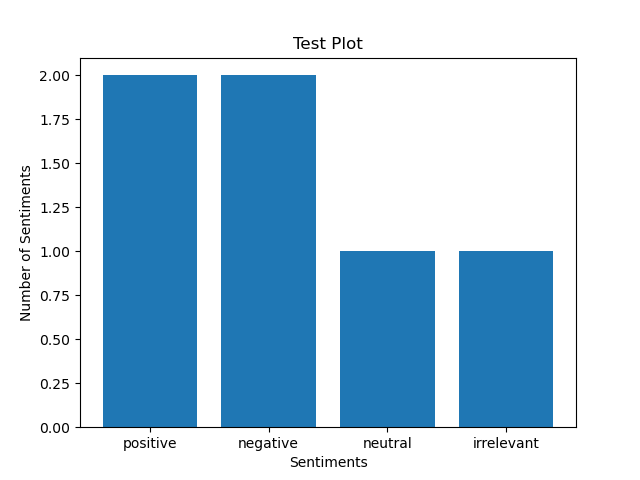
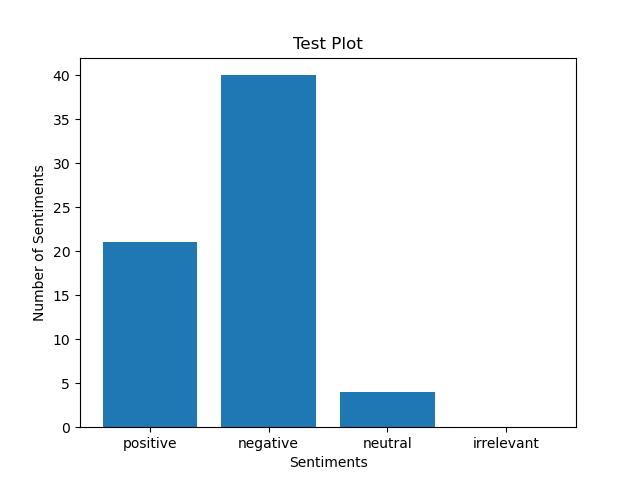
Update of all sections of project to fix graph and writeup

diff --git a/label.py b/label.py
@@ -17,15 +17,13 @@ def get_sentiment(text: list) -> list:
     for i in text:
         if type(i)!=str:
             return "Wrong input. text must be an array of strings."
-    #for i in text:
-     #   if not isinstance(i,str):
-      #      return "Wrong input"
+    
      
     
 
 
     system_prompt = """You are a assistant with authority on categorizing sentiments for customer reviews.
-    The categories are negative, positive, neutral, and irrelevant. 
+    The categories are negative, positive, neutral, and irrelevant.  
     """
 
     prompt = f"""
@@ -41,9 +39,9 @@ def get_sentiment(text: list) -> list:
         messages=[
 	   { "role": "assistant",  "content": system_prompt },
        { "role": "user",  "content": prompt }
-    ]
+        ]
     
-)
+    )
 
  #display the output
     modified_list = response.choices[0].message.content.split("\n")
@@ -58,15 +56,4 @@ def get_sentiment(text: list) -> list:
     
 
 
-    #pass
-#in_data = [
- #     "I will never buy another brand again, I love this ring",
-  # #   "It's an ok ring. Some features could be better but for the price its fine.",
-   #   "its a ring",
-     # "Bought this ring and it came broken. rip-off."
-   # ]
-#error_data1 = []
-#error_data2 = [1, 2, 3, 4, 5]
-#print(get_sentiment(in_data))
-#for i in error_data2:
-   # print(type(i))
+   

diff --git a/main.py b/main.py
@@ -16,7 +16,7 @@ def run(filepath: str):
 
     # extract the reviews from the json file
     extracted_reviews = results["results"]
-   # print(extracted_reviews)
+    #print(extracted_reviews)
 
     # get a list of sentiments for each line using get_sentiment
     ended_sentiments = get_sentiment(extracted_reviews)
@@ -25,12 +25,14 @@ def run(filepath: str):
     make_plot(ended_sentiments)
 
 
-    # return sentiments
-    #print(ended_sentiments)
-    #sentiment_count = zip(extracted_reviews, ended_sentiments)
+   # return sentiments
+    print(ended_sentiments)
+    sentiment_count = zip(extracted_reviews, ended_sentiments)
     #print(list(sentiment_count))
-    #for review, sentiments in sentiment_count:
-        #print(f"review:{review}\n sentiment:{sentiments}\n")
+    for review, sentiments in sentiment_count:
+        print(f"review:{review}\n sentiment:{sentiments}\n")
+    
+   
     return ended_sentiments
 
 

diff --git a/visualize.py b/visualize.py
@@ -6,14 +6,14 @@ def make_plot(sentiments: list) -> list:
     Assigned each sentiment count to a variable. Then plotted those to 
     a graph per the variable of each sentiment.
     """
+    print(f'{sentiments = }')
 
-    data=()
     a= sentiments.count ("positive")
     b= sentiments.count ("negative")
     c= sentiments.count ("neutral")
     d= sentiments.count ("irrelevant")
 
-    #print(d)
+    print(a, b, c, d)
 
 
     fig, ax = plt.subplots()
@@ -21,6 +21,6 @@ def make_plot(sentiments: list) -> list:
     ax.set_title("Test Plot")
     ax.set_xlabel("Sentiments")
     ax.set_ylabel("Number of Sentiments")
-    fig.savefig("images/")
+    fig.savefig("images/graphed_sentiments")
  
 

diff --git a/writeup.md b/writeup.md
@@ -9,15 +9,18 @@ What is the most common sentiment observed in your sample of 50 reviews accordin
 How reliable do you believe these labels are? Look at the respective labels OpenAI has generated for specific reviews, does it seem like the large language model accurately described the user's review? What risk do model hallucinations introduce into this analysis?
 
 [I do not believe that the labels are 100% correct. For the most part it accurately described the user's review.  
-
 It has some that were positive that shouldnt been negative. It seem if it had love or great in the review it was given a positive however the review may have been talking about another product or how ZICO use to taste. There were also some that were negative that shouldve been positive. For example one said that its wasnt its favorite however still gave good things about the drink. Another said he didnt like and dont buy the drink in a 14.2oz bottle but love the taste of the one in the 110z tetra box and recommended others to buy that one.
 
-The risk model hallucinations introduce is wrong results based off misinterpretation of the data.  This may come from the lack of OpenAI or the thoroughness of the system prompt and prompt. ]
+The risk model hallucinations introduce is wrong results based off misinterpretation of the data and Open AI creating its own reviews and sentiments. I noctice this because its suppose to be 50 reviews and sentiments however 76 came out. This may come from the lack of OpenAI or the thoroughness of the system prompt and prompt. ]
 
 ## Question 3
 
 Using the most common sentiment, what would you recommend to this Coconut Water producer to improve customer satisfaction? Should they continue to pursue current market/product outcomes, or does there exist an opportunity for this business to improve its product?
 
-[To improve customer statisfaction I would recommend to stop making it from concentrate and using natural flavors.  It may be the reason the water has a bad smell and taste which includes the after taste. Their long time repeat customers love the pure coconut water they used to make the drink. Also I would go back to the tetra packs because customers dont like the plastic taste from the bottles they are currently using. If thats not a option then a better quality plastic bottle needs to be used. Find out why the drink taste different in the bigger size bottles. What about that bottle is changing the taste.
+[Based on the sentiment analysis, the most common sentiment among the customer reviews was negative. A large number of reviews expressed frustration with the product's smell, taste, and aftertaste which is often linked to the drink being made from concentrate and using “natural flavors.”
 
-I believe its a huge opportunity for this business to improve its product. Their customers both new and repeat have spoken about their dissatisfaction of the product and how others are better. Majority of the customers have the same complaints and with new customers not wanting to buy again and the repeat loyal customers leaving. They are losing market share by the bottle. As a business you have to fix the things your customers are complaining about especially when its not a one off its the majority. ]
+Long-time repeat customers specifically mentioned that they preferred the original version, which used pure coconut water, and noticed a significant decline in quality. Additionally, many reviews highlighted a strong plastic taste, believed to come from the newer bottles. Some mentioned that the larger-sized bottles tasted different (and worse) than the smaller ones.
+
+Given the consistency of these complaints and the fact that both new and loyal customers are voicing them — and in some cases leaving for other brands — it shows there’s a significant opportunity to improve customer satisfaction and regain market share.
+
+My recommendation would be go back to using pure coconut water and consider switching back to tetra packs, or at least upgrading the plastic bottle quality. Investigate the formula and packaging of the larger-sized bottles to identify what’s causing the change in taste.]
